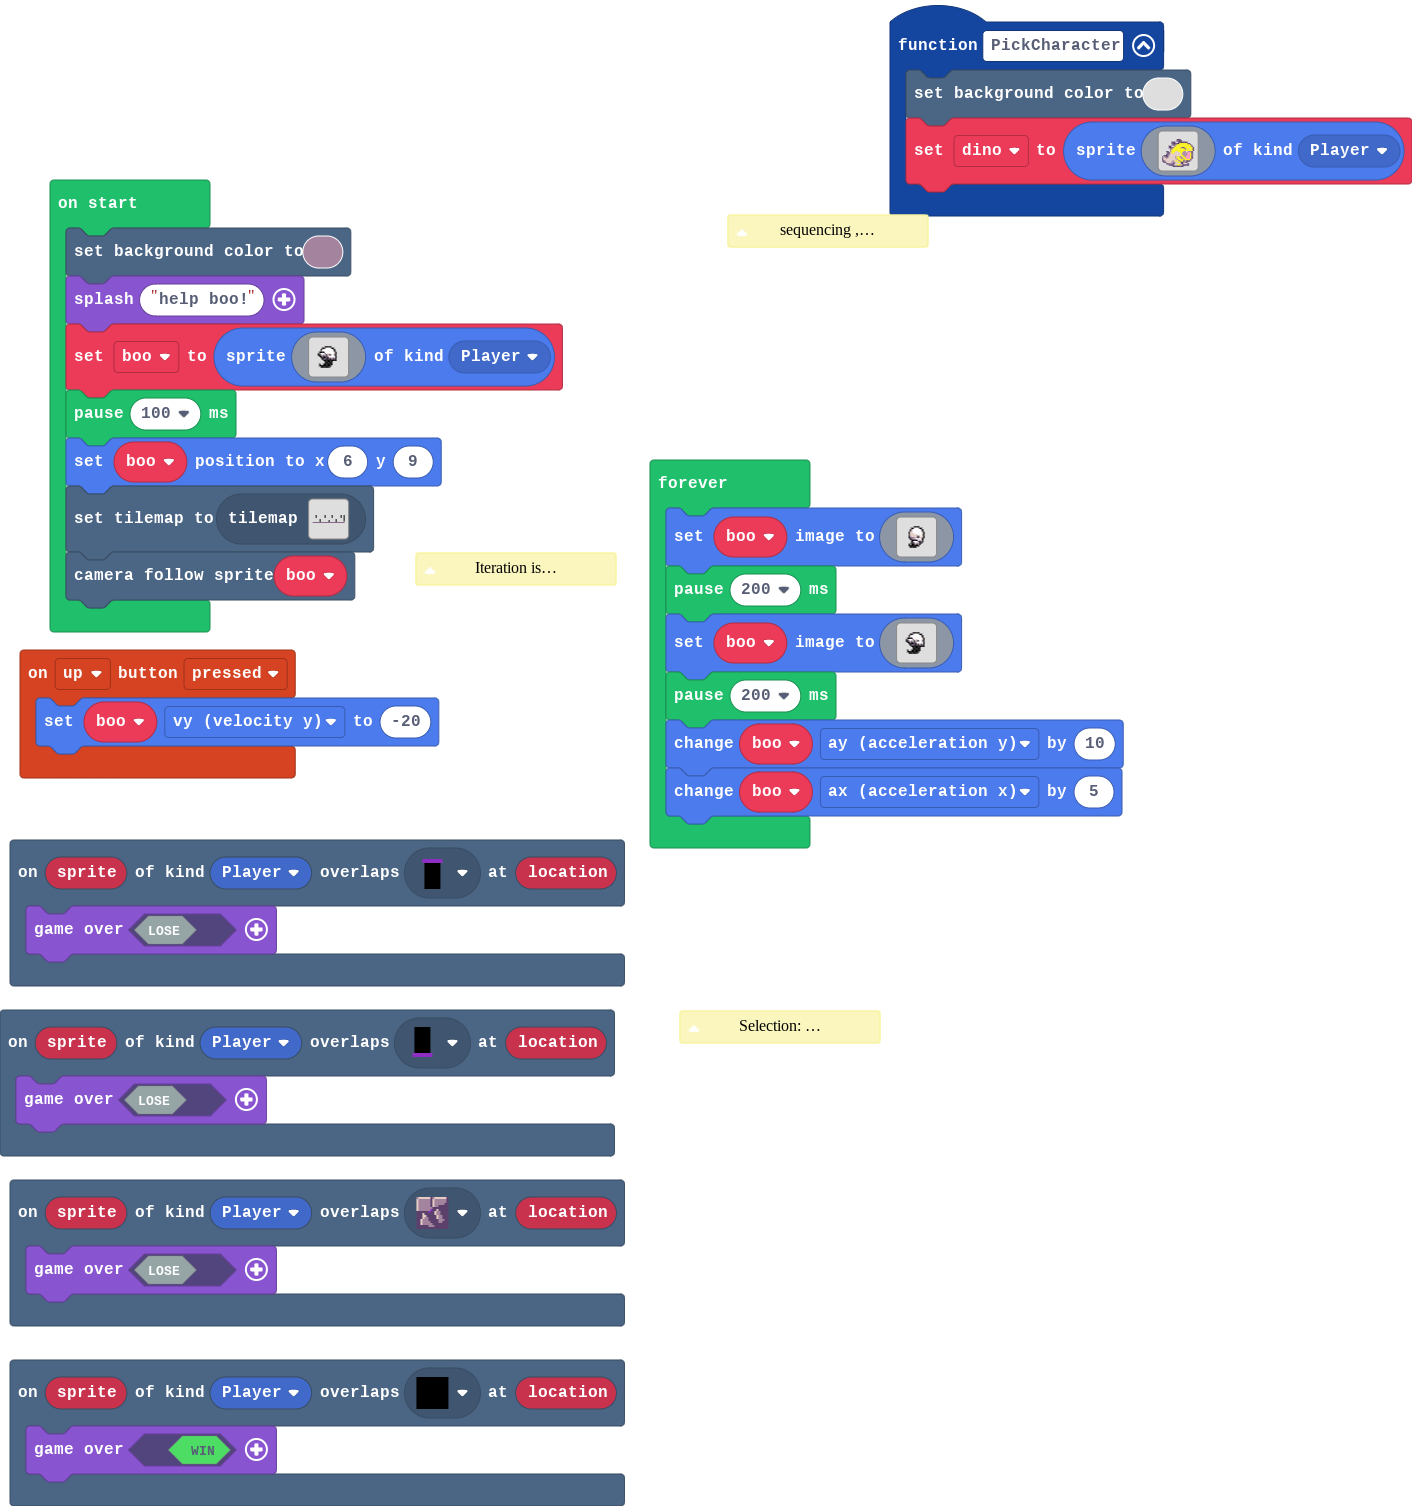
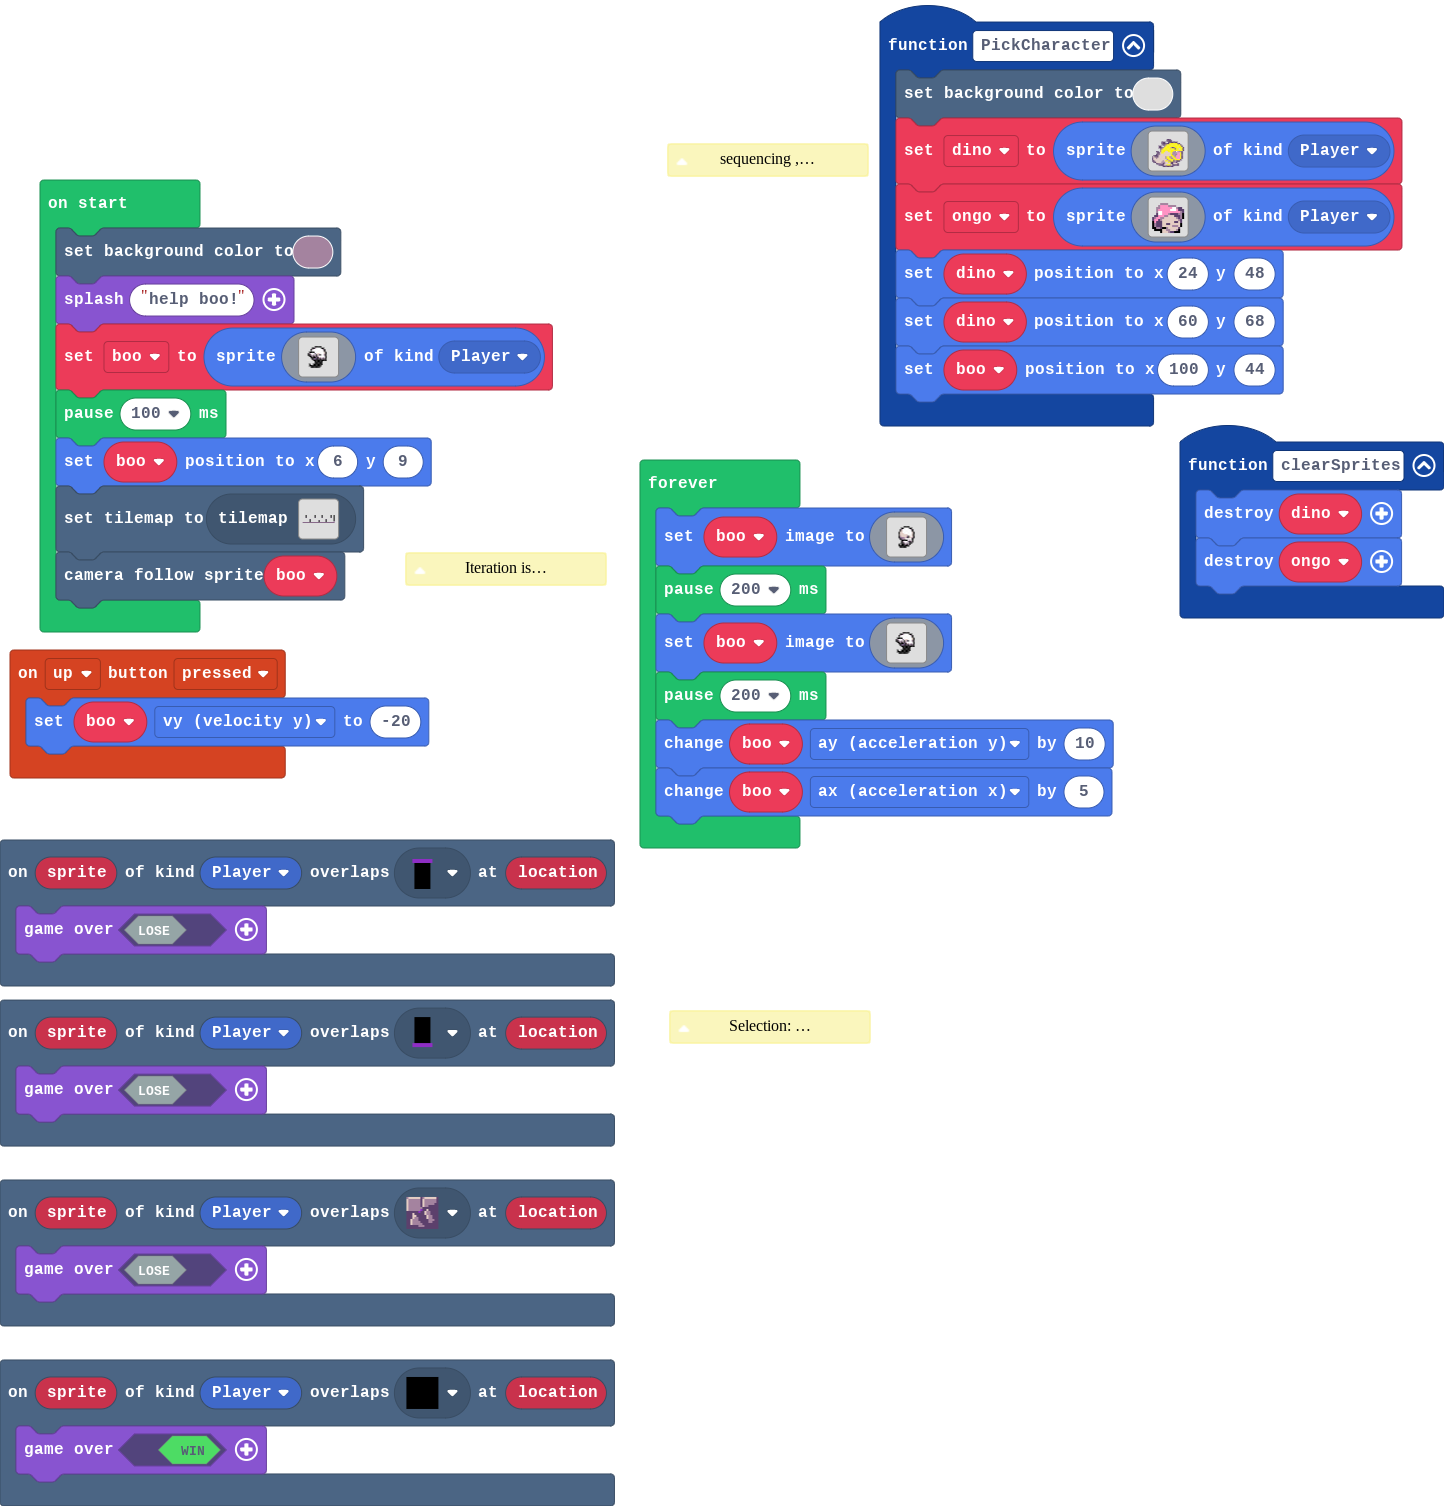
Extension

diff --git a/main.ts b/main.ts
@@ -10,6 +10,10 @@ scene.onOverlapTile(SpriteKind.Player, assets.tile`myTile1`, function (sprite, l
 controller.up.onEvent(ControllerButtonEvent.Pressed, function () {
     boo.vy = -20
 })
+function clearSprites () {
+    dino.destroy()
+    ongo.destroy()
+}
 scene.onOverlapTile(SpriteKind.Player, assets.tile`myTile2`, function (sprite, location) {
     game.over(true)
 })
@@ -44,6 +48,27 @@ function PickCharacter () {
         .....ccccdd555dccccc....
         ........cccccccc........
         `, SpriteKind.Player)
+    ongo = sprites.create(img`
+        . . . . . . . . . . . . . . . . 
+        . . . . b b b b . . . . . . . . 
+        . . . b 3 3 3 3 b b b b . . . . 
+        . . b b 3 3 3 3 3 3 1 1 b c c . 
+        . . b 3 3 3 3 3 3 1 1 1 3 c c c 
+        . . b 1 1 3 3 3 3 3 3 3 3 3 b c 
+        . . c 1 1 3 3 3 b c c c c b b f 
+        . c c 3 3 3 b b d d d c c c b f 
+        c b 3 3 b b d d d d d d b c b f 
+        c 3 3 c b d d d d d d d d b c . 
+        f 3 c c c d d d d d d c c d c . 
+        f b c c c d d c c d d d d d f . 
+        f b c c c d d d d d b b b d f . 
+        f f b b c f f b d d d d d c . . 
+        . f f f f d d b b d d d b f . . 
+        . . . . f d d d b c c f f f . . 
+        `, SpriteKind.Player)
+    dino.setPosition(24, 48)
+    dino.setPosition(60, 68)
+    boo.setPosition(100, 44)
 }
 scene.onOverlapTile(SpriteKind.Player, sprites.dungeon.floorDark3, function (sprite, location) {
     game.over(false)
@@ -51,6 +76,7 @@ scene.onOverlapTile(SpriteKind.Player, sprites.dungeon.floorDark3, function (spr
 /**
  * Iteration is happening here,
  */
+let ongo: Sprite = null
 let dino: Sprite = null
 let boo: Sprite = null
 scene.setBackgroundColor(11)
